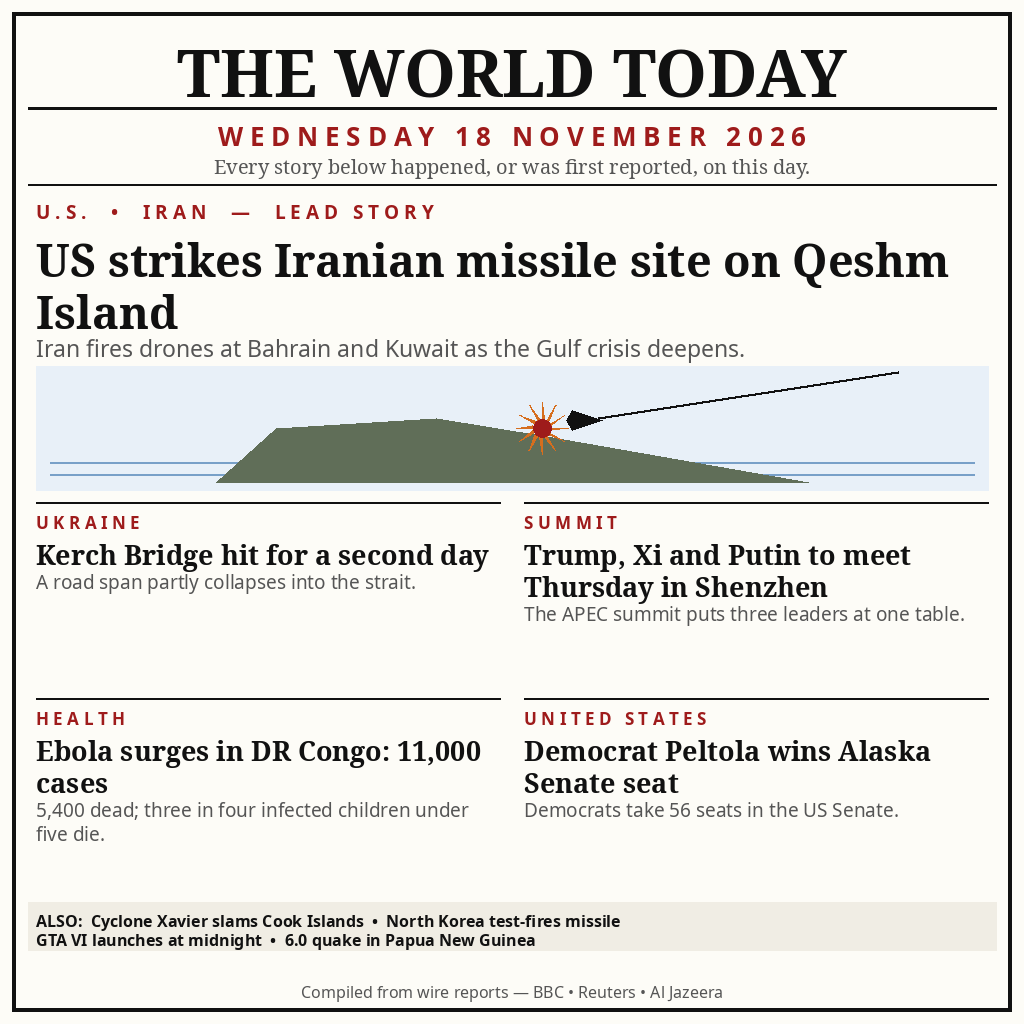
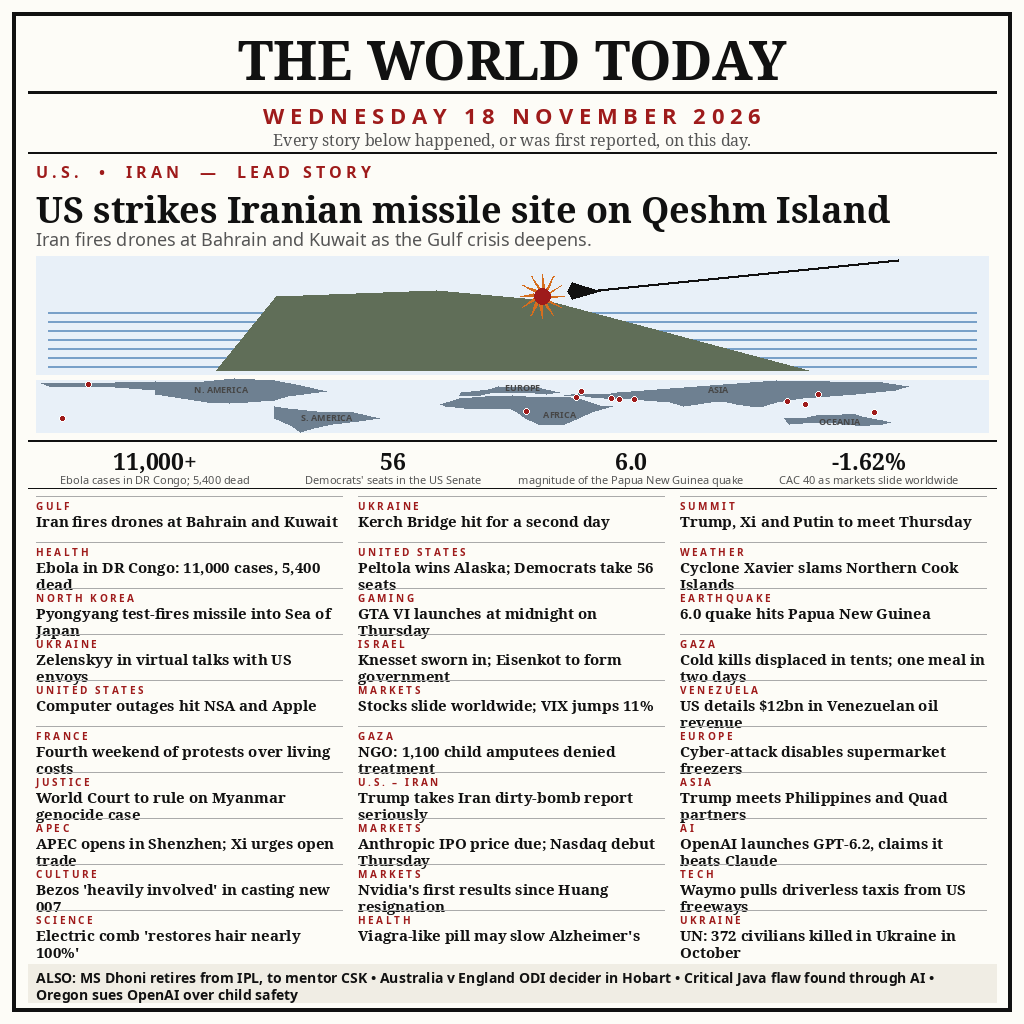
news-image-20261118: dense v2 front page — 31 stories, world map, day in figures

Changed region(s): [[0.0312, 0.0312, 0.9688, 1.0]]

diff --git a/build_image.py b/build_image.py
@@ -1,10 +1,13 @@
-"""Build the news-image-20261117 front page (1024x1024 PNG, PIL only).
+"""Build the news-image-20261118 v2 front page (1024x1024 PNG, PIL only).
 
-Layout: newspaper front page. Masthead + dateline, lead story with a drawn
-bridge illustration, 2x2 grid of further stories, bottom ticker, footer.
-All headline text is rendered with PIL so every letter is crisp.
+Dense newspaper front page: masthead + dateline, illustrated lead story,
+a world-map strip with story dots, a "day in figures" band, a 3x10 grid of
+30 short stories (31 stories + 4 ticker items in total), ticker footer.
+All text is rendered with PIL so every letter is crisp. Deterministic:
+same bytes on every run.
 """
-import textwrap
+import math
+
 from PIL import Image, ImageDraw, ImageFont
 
 W, H = 1024, 1024
@@ -15,6 +18,8 @@ MUTED = (85, 85, 85)
 NAVY = (31, 58, 95)
 WATER = (120, 160, 200)
 BAND = (240, 237, 228)
+MAPBG = (232, 240, 248)
+LAND = (110, 128, 145)
 
 SERIF_B = "/usr/share/fonts/truetype/noto/NotoSerif-Bold.ttf"
 SERIF = "/usr/share/fonts/truetype/noto/NotoSerif-Regular.ttf"
@@ -46,112 +51,214 @@ def spaced(text, n=1):
     return (" " * n).join(list(text))
 
 
-def draw_bridge(draw, x0, y0, x1, y1):
-    """Schematic island with a missile strike: sea, island, descending
-    missile trail and an impact burst."""
-    draw.rectangle([x0, y0, x1, y1], fill=(232, 240, 248))
-    # sea
-    for yy in range(y0 + 96, y1 - 6, 12):
-        draw.line([x0 + 14, yy, x1 - 14, yy], fill=WATER, width=2)
-    # island
+def draw_island(d, x0, y0, x1, y1):
+    """Compact schematic island with a missile strike: sea, island,
+    descending missile trail and an impact burst."""
+    d.rectangle([x0, y0, x1, y1], fill=MAPBG)
+    for yy in range(y0 + 56, y1 - 4, 9):
+        d.line([x0 + 12, yy, x1 - 12, yy], fill=WATER, width=2)
     ix0, ix1 = x0 + 180, x1 - 180
-    draw.polygon([(ix0, y1 - 8), (ix0 + 60, y0 + 62), (ix0 + 220, y0 + 52),
-                  (ix0 + 330, y0 + 70), (ix1, y1 - 8)], fill=(96, 110, 88))
-    # missile trail (descending from top right)
-    mx, my = (x0 + x1) // 2 + 60, y0 + 58
-    draw.line([x1 - 90, y0 + 6, mx + 26, my - 6], fill=INK, width=3)
-    # missile body
-    draw.polygon([(mx, my - 14), (mx + 30, my - 4), (mx, my + 6), (mx - 6, my - 4)], fill=INK)
-    # impact burst (orange star)
-    bx, by = (x0 + x1) // 2 + 30, y0 + 62
+    d.polygon([(ix0, y1 - 4), (ix0 + 60, y0 + 40), (ix0 + 220, y0 + 34),
+               (ix0 + 330, y0 + 44), (ix1, y1 - 4)], fill=(96, 110, 88))
+    mx, my = (x0 + x1) // 2 + 60, y0 + 38
+    d.line([x1 - 90, y0 + 4, mx + 26, my - 4], fill=INK, width=3)
+    d.polygon([(mx, my - 12), (mx + 28, my - 3), (mx, my + 5), (mx - 5, my - 3)],
+              fill=INK)
+    bx, by = (x0 + x1) // 2 + 30, y0 + 40
     for ang in range(0, 360, 30):
-        import math
-        r1, r2 = 26, 10
+        r1, r2 = 22, 9
         a1 = math.radians(ang)
         a2 = math.radians(ang + 15)
-        draw.polygon([(bx, by),
-                      (bx + r1 * math.cos(a1), by + r1 * math.sin(a1)),
-                      (bx + r2 * math.cos(a2), by + r2 * math.sin(a2))],
-                     fill=(214, 110, 30))
-    draw.ellipse([bx - 9, by - 9, bx + 9, by + 9], fill=(158, 27, 27))
+        d.polygon([(bx, by),
+                   (bx + r1 * math.cos(a1), by + r1 * math.sin(a1)),
+                   (bx + r2 * math.cos(a2), by + r2 * math.sin(a2))],
+                  fill=(214, 110, 30))
+    d.ellipse([bx - 8, by - 8, bx + 8, by + 8], fill=(158, 27, 27))
+
+
+# ---- world map: coarse continent polygons in (lon, lat) ----
+CONTINENTS = [
+    [(-168, 66), (-140, 70), (-125, 72), (-110, 68), (-95, 80), (-80, 73),
+     (-70, 62), (-60, 47), (-75, 35), (-80, 25), (-90, 20), (-97, 16),
+     (-105, 20), (-115, 28), (-125, 40), (-125, 49), (-145, 60), (-165, 60)],
+    [(-80, 10), (-75, 5), (-60, -5), (-50, -5), (-40, -20), (-48, -28),
+     (-58, -35), (-65, -45), (-70, -55), (-73, -40), (-80, -20), (-80, -5)],
+    [(-17, 15), (-10, 30), (0, 35), (10, 37), (20, 32), (32, 31), (35, 28),
+     (43, 12), (48, 10), (40, -5), (35, -20), (30, -35), (20, -35),
+     (15, -20), (12, -5), (9, 4), (-8, 5), (-15, 10)],
+    [(-10, 36), (-9, 43), (-2, 48), (0, 50), (5, 58), (10, 57), (18, 56),
+     (21, 54), (28, 45), (23, 40), (19, 42), (12, 44), (3, 43), (-2, 37)],
+    [(30, 36), (35, 42), (45, 40), (50, 45), (60, 50), (70, 55), (80, 60),
+     (90, 65), (100, 70), (110, 75), (130, 72), (150, 70), (160, 60),
+     (155, 50), (140, 40), (130, 35), (120, 30), (110, 20), (105, 10),
+     (100, 8), (95, 15), (90, 22), (85, 20), (80, 15), (75, 8), (70, 20),
+     (60, 25), (55, 26), (50, 30), (45, 28), (40, 32), (35, 36)],
+    [(113, -22), (114, -30), (115, -35), (120, -34), (125, -32), (130, -32),
+     (135, -35), (140, -38), (145, -38), (150, -37), (153, -32), (150, -27),
+     (146, -20), (142, -15), (140, -12), (135, -12), (130, -13), (125, -14),
+     (120, -20), (114, -22)],
+]
+LABELS = [
+    ("N. AMERICA", -100, 56), ("S. AMERICA", -60, -14), ("EUROPE", 14, 60),
+    ("AFRICA", 28, -8), ("ASIA", 88, 56), ("OCEANIA", 134, -24),
+]
+DOTS = [
+    (56.3, 26.9), (50.6, 26.2), (47.5, 29.3), (36.4, 45.3), (114.1, 22.5),
+    (15.3, -4.3), (-150, 64), (147, -6.3), (-160, -21.2), (125.8, 39),
+    (121, 14.6), (34.5, 31.5),
+]
+
+
+def draw_map(d, x0, y0, x1, y1):
+    d.rectangle([x0, y0, x1, y1], fill=MAPBG)
+
+    def proj(lon, lat):
+        x = x0 + (lon + 170) / 360.0 * (x1 - x0)
+        y = y0 + (75 - lat) / 130.0 * (y1 - y0)
+        return (x, y)
+    for poly in CONTINENTS:
+        d.polygon([proj(lon, lat) for lon, lat in poly], fill=LAND)
+    f_lab = font(SANS_B, 9)
+    for text, lon, lat in LABELS:
+        x, y = proj(lon, lat)
+        d.text((x - d.textlength(text, font=f_lab) / 2, y - 5), text,
+               font=f_lab, fill=(70, 70, 70))
+    for lon, lat in DOTS:
+        x, y = proj(lon, lat)
+        d.ellipse([x - 3, y - 3, x + 3, y + 3], fill=RED,
+                  outline=(255, 255, 255), width=1)
+
+
+LEAD_KICK = "U.S.  •  IRAN  —  LEAD STORY"
+LEAD_HEAD = "US strikes Iranian missile site on Qeshm Island"
+LEAD_SUB = "Iran fires drones at Bahrain and Kuwait as the Gulf crisis deepens."
+
+FIGURES = [
+    ("11,000+", "Ebola cases in DR Congo; 5,400 dead"),
+    ("56", "Democrats' seats in the US Senate"),
+    ("6.0", "magnitude of the Papua New Guinea quake"),
+    ("-1.62%", "CAC 40 as markets slide worldwide"),
+]
+
+GRID = [
+    ("GULF", "Iran fires drones at Bahrain and Kuwait"),
+    ("UKRAINE", "Kerch Bridge hit for a second day"),
+    ("SUMMIT", "Trump, Xi and Putin to meet Thursday"),
+    ("HEALTH", "Ebola in DR Congo: 11,000 cases, 5,400 dead"),
+    ("UNITED STATES", "Peltola wins Alaska; Democrats take 56 seats"),
+    ("WEATHER", "Cyclone Xavier slams Northern Cook Islands"),
+    ("NORTH KOREA", "Pyongyang test-fires missile into Sea of Japan"),
+    ("GAMING", "GTA VI launches at midnight on Thursday"),
+    ("EARTHQUAKE", "6.0 quake hits Papua New Guinea"),
+    ("UKRAINE", "Zelenskyy in virtual talks with US envoys"),
+    ("ISRAEL", "Knesset sworn in; Eisenkot to form government"),
+    ("GAZA", "Cold kills displaced in tents; one meal in two days"),
+    ("UNITED STATES", "Computer outages hit NSA and Apple"),
+    ("MARKETS", "Stocks slide worldwide; VIX jumps 11%"),
+    ("VENEZUELA", "US details $12bn in Venezuelan oil revenue"),
+    ("FRANCE", "Fourth weekend of protests over living costs"),
+    ("GAZA", "NGO: 1,100 child amputees denied treatment"),
+    ("EUROPE", "Cyber-attack disables supermarket freezers"),
+    ("JUSTICE", "World Court to rule on Myanmar genocide case"),
+    ("U.S. – IRAN", "Trump takes Iran dirty-bomb report seriously"),
+    ("ASIA", "Trump meets Philippines and Quad partners"),
+    ("APEC", "APEC opens in Shenzhen; Xi urges open trade"),
+    ("MARKETS", "Anthropic IPO price due; Nasdaq debut Thursday"),
+    ("AI", "OpenAI launches GPT-6.2, claims it beats Claude"),
+    ("CULTURE", "Bezos 'heavily involved' in casting new 007"),
+    ("MARKETS", "Nvidia's first results since Huang resignation"),
+    ("TECH", "Waymo pulls driverless taxis from US freeways"),
+    ("SCIENCE", "Electric comb 'restores hair nearly 100%'"),
+    ("HEALTH", "Viagra-like pill may slow Alzheimer's"),
+    ("UKRAINE", "UN: 372 civilians killed in Ukraine in October"),
+]
+
+TICKER = ("ALSO:  MS Dhoni retires from IPL, to mentor CSK  •  "
+          "Australia v England ODI decider in Hobart  •  "
+          "Critical Java flaw found through AI  •  "
+          "Oregon sues OpenAI over child safety")
 
 
 def build(path):
     img = Image.new("RGB", (W, H), PAPER)
     d = ImageDraw.Draw(img)
-    # frame
     d.rectangle([12, 12, W - 13, H - 13], outline=INK, width=4)
-    # masthead
-    f_mast = font(SERIF_B, 66)
+
+    # masthead + dateline
+    f_mast = font(SERIF_B, 54)
     t = "THE WORLD TODAY"
-    d.text(((W - d.textlength(t, font=f_mast)) / 2, 26), t, font=f_mast, fill=INK)
-    d.line([28, 108, W - 28, 108], fill=INK, width=3)
-    # dateline
-    f_date = font(SANS_B, 26)
+    d.text(((W - d.textlength(t, font=f_mast)) / 2, 22), t, font=f_mast, fill=INK)
+    d.line([28, 92, W - 28, 92], fill=INK, width=3)
+    f_date = font(SANS_B, 22)
     t = spaced("WEDNESDAY 18 NOVEMBER 2026")
-    d.text(((W - d.textlength(t, font=f_date)) / 2, 118), t, font=f_date, fill=RED)
-    f_note = font(SERIF, 20)
+    d.text(((W - d.textlength(t, font=f_date)) / 2, 100), t, font=f_date, fill=RED)
+    f_note = font(SERIF, 16)
     t = "Every story below happened, or was first reported, on this day."
-    d.text(((W - d.textlength(t, font=f_note)) / 2, 152), t, font=f_note, fill=MUTED)
-    d.line([28, 184, W - 28, 184], fill=INK, width=2)
+    d.text(((W - d.textlength(t, font=f_note)) / 2, 128), t, font=f_note, fill=MUTED)
+    d.line([28, 152, W - 28, 152], fill=INK, width=2)
 
     # ---- lead story ----
-    y = 198
-    f_kick = font(SANS_B, 19)
-    d.text((36, y), spaced("U.S.  •  IRAN  —  LEAD STORY", 1), font=f_kick, fill=RED)
-    y += 30
-    f_head = font(SERIF_B, 45)
-    for line in wrap(d, "US strikes Iranian missile site on Qeshm Island", f_head, W - 72):
+    y = 160
+    f_kick = font(SANS_B, 16)
+    d.text((36, y), spaced(LEAD_KICK, 1), font=f_kick, fill=RED)
+    y += 24
+    f_head = font(SERIF_B, 36)
+    for line in wrap(d, LEAD_HEAD, f_head, W - 72)[:2]:
         d.text((36, y), line, font=f_head, fill=INK)
-        y += 52
-    f_sub = font(SANS, 23)
-    for line in wrap(d, "Iran fires drones at Bahrain and Kuwait as the Gulf crisis deepens.", f_sub, W - 72):
+        y += 42
+    f_sub = font(SANS, 18)
+    for line in wrap(d, LEAD_SUB, f_sub, W - 72)[:2]:
         d.text((36, y), line, font=f_sub, fill=MUTED)
-        y += 30
-    draw_bridge(d, 36, y + 4, W - 36, y + 128)
+        y += 24
+    draw_island(d, 36, y + 6, W - 36, y + 124)
+    y += 130
 
-    # ---- grid ----
-    gy = y + 140
-    stories = [
-        ("UKRAINE", "Kerch Bridge hit for a second day",
-         "A road span partly collapses into the strait."),
-        ("SUMMIT", "Trump, Xi and Putin to meet Thursday in Shenzhen",
-         "The APEC summit puts three leaders at one table."),
-        ("HEALTH", "Ebola surges in DR Congo: 11,000 cases",
-         "5,400 dead; three in four infected children under five die."),
-        ("UNITED STATES", "Democrat Peltola wins Alaska Senate seat",
-         "Democrats take 56 seats in the US Senate."),
-    ]
-    col_w = (W - 72 - 24) // 2
-    row_h = 196
-    f_gkick = font(SANS_B, 17)
-    f_ghead = font(SERIF_B, 27)
-    f_gsub = font(SANS, 19)
-    for i, (kick, head, sub) in enumerate(stories):
-        cx = 36 + (i % 2) * (col_w + 24)
-        cy = gy + (i // 2) * row_h
-        d.line([cx, cy, cx + col_w, cy], fill=INK, width=2)
-        d.text((cx, cy + 8), spaced(kick, 1), font=f_gkick, fill=RED)
-        yy = cy + 34
+    # ---- world map strip ----
+    draw_map(d, 36, y, W - 36, y + 52)
+    y += 60
+
+    # ---- day in figures ----
+    d.line([28, y, W - 28, y], fill=INK, width=2)
+    f_num = font(SERIF_B, 23)
+    f_lab = font(SANS, 11)
+    col_w = (W - 72) // 4
+    for i, (num, lab) in enumerate(FIGURES):
+        cx = 36 + i * col_w
+        nw = d.textlength(num, font=f_num)
+        d.text((cx + (col_w - nw) / 2, y + 5), num, font=f_num, fill=INK)
+        for j, line in enumerate(wrap(d, lab, f_lab, col_w - 12)[:1]):
+            lw = d.textlength(line, font=f_lab)
+            d.text((cx + (col_w - lw) / 2, y + 32), line, font=f_lab, fill=MUTED)
+    y += 48
+    d.line([28, y, W - 28, y], fill=INK, width=1)
+
+    # ---- dense grid: 3 columns x 10 rows ----
+    y += 8
+    col_w = (W - 72 - 32) // 3
+    row_h = 46
+    f_gkick = font(SANS_B, 10)
+    f_ghead = font(SERIF_B, 15)
+    for i, (kick, head) in enumerate(GRID):
+        cx = 36 + (i % 3) * (col_w + 16)
+        cy = y + (i // 3) * row_h
+        d.line([cx, cy, cx + col_w, cy], fill=(170, 170, 170), width=1)
+        d.text((cx, cy + 3), spaced(kick, 1), font=f_gkick, fill=RED)
+        yy = cy + 14
         for line in wrap(d, head, f_ghead, col_w)[:2]:
             d.text((cx, yy), line, font=f_ghead, fill=INK)
-            yy += 32
-        for line in wrap(d, sub, f_gsub, col_w)[:2]:
-            d.text((cx, yy), line, font=f_gsub, fill=MUTED)
-            yy += 24
+            yy += 17
+    y += 10 * row_h
 
-    # ---- ticker (two lines) ----
-    ty = gy + 2 * row_h + 8
-    d.rectangle([28, ty, W - 28, ty + 48], fill=BAND)
-    f_tick = font(SANS_B, 16)
-    t1 = "ALSO:  Cyclone Xavier slams Cook Islands  •  North Korea test-fires missile"
-    t2 = "GTA VI launches at midnight  •  6.0 quake in Papua New Guinea"
-    d.text((36, ty + 7), t1, font=f_tick, fill=INK)
-    d.text((36, ty + 26), t2, font=f_tick, fill=INK)
-    # footer
-    f_foot = font(SANS, 16)
-    t = "Compiled from wire reports — BBC • Reuters • Al Jazeera"
-    d.text(((W - d.textlength(t, font=f_foot)) / 2, H - 44), t, font=f_foot, fill=MUTED)
+    # ---- ticker ----
+    ty = y + 8
+    d.rectangle([28, ty, W - 28, ty + 38], fill=BAND)
+    f_tick = font(SANS_B, 14)
+    lines = wrap(d, TICKER, f_tick, W - 72)[:2]
+    for j, line in enumerate(lines):
+        d.text((36, ty + 4 + j * 17), line, font=f_tick, fill=INK)
+    y = ty + 38
+    assert y <= 1006, f"layout overflow: ends at {y}"
+    print("layout ends at", y, "stories:", 1 + len(GRID), "+ ticker")
 
     img.save(path, "PNG", optimize=True)
     print("saved", path)

diff --git a/README.md b/README.md
@@ -4,7 +4,7 @@
 [![rank](https://make.fun/badge/news-image-20261118/Ysf30/news-image-20261118/rank.svg)](https://make.fun/bounty/news-image-20261118/leaderboard?utm_source=github&utm_medium=readme&utm_campaign=news-image-20261118)
 [![reward](https://make.fun/badge/news-image-20261118/Ysf30/news-image-20261118/reward.svg)](https://make.fun/bounty/news-image-20261118?utm_source=github&utm_medium=readme&utm_campaign=news-image-20261118)
 
-A one-page newspaper front page summing up the world's news of Wednesday 18 November 2026: the US strikes an Iranian missile site on Qeshm Island, the Kerch Bridge is hit for a second day, Trump, Xi and Putin are set to meet in Shenzhen, Ebola surges in DR Congo, and Democrat Mary Peltola wins the Alaska Senate seat. Every headline is rendered as crisp text so the image reads on its own; the lead illustration (a missile strike on an island) is drawn programmatically with PIL.
+A dense one-page newspaper front page summing up the world's news of Wednesday 18 November 2026: 31 stories from the US strike on Qeshm Island to the Alaska Senate result, plus a world map marking where the news happened and the day in figures. Every headline is rendered as crisp text so the image reads on its own; the lead illustration (a missile strike on an island) and the map are drawn programmatically with PIL.
 
 ## Run it
 
